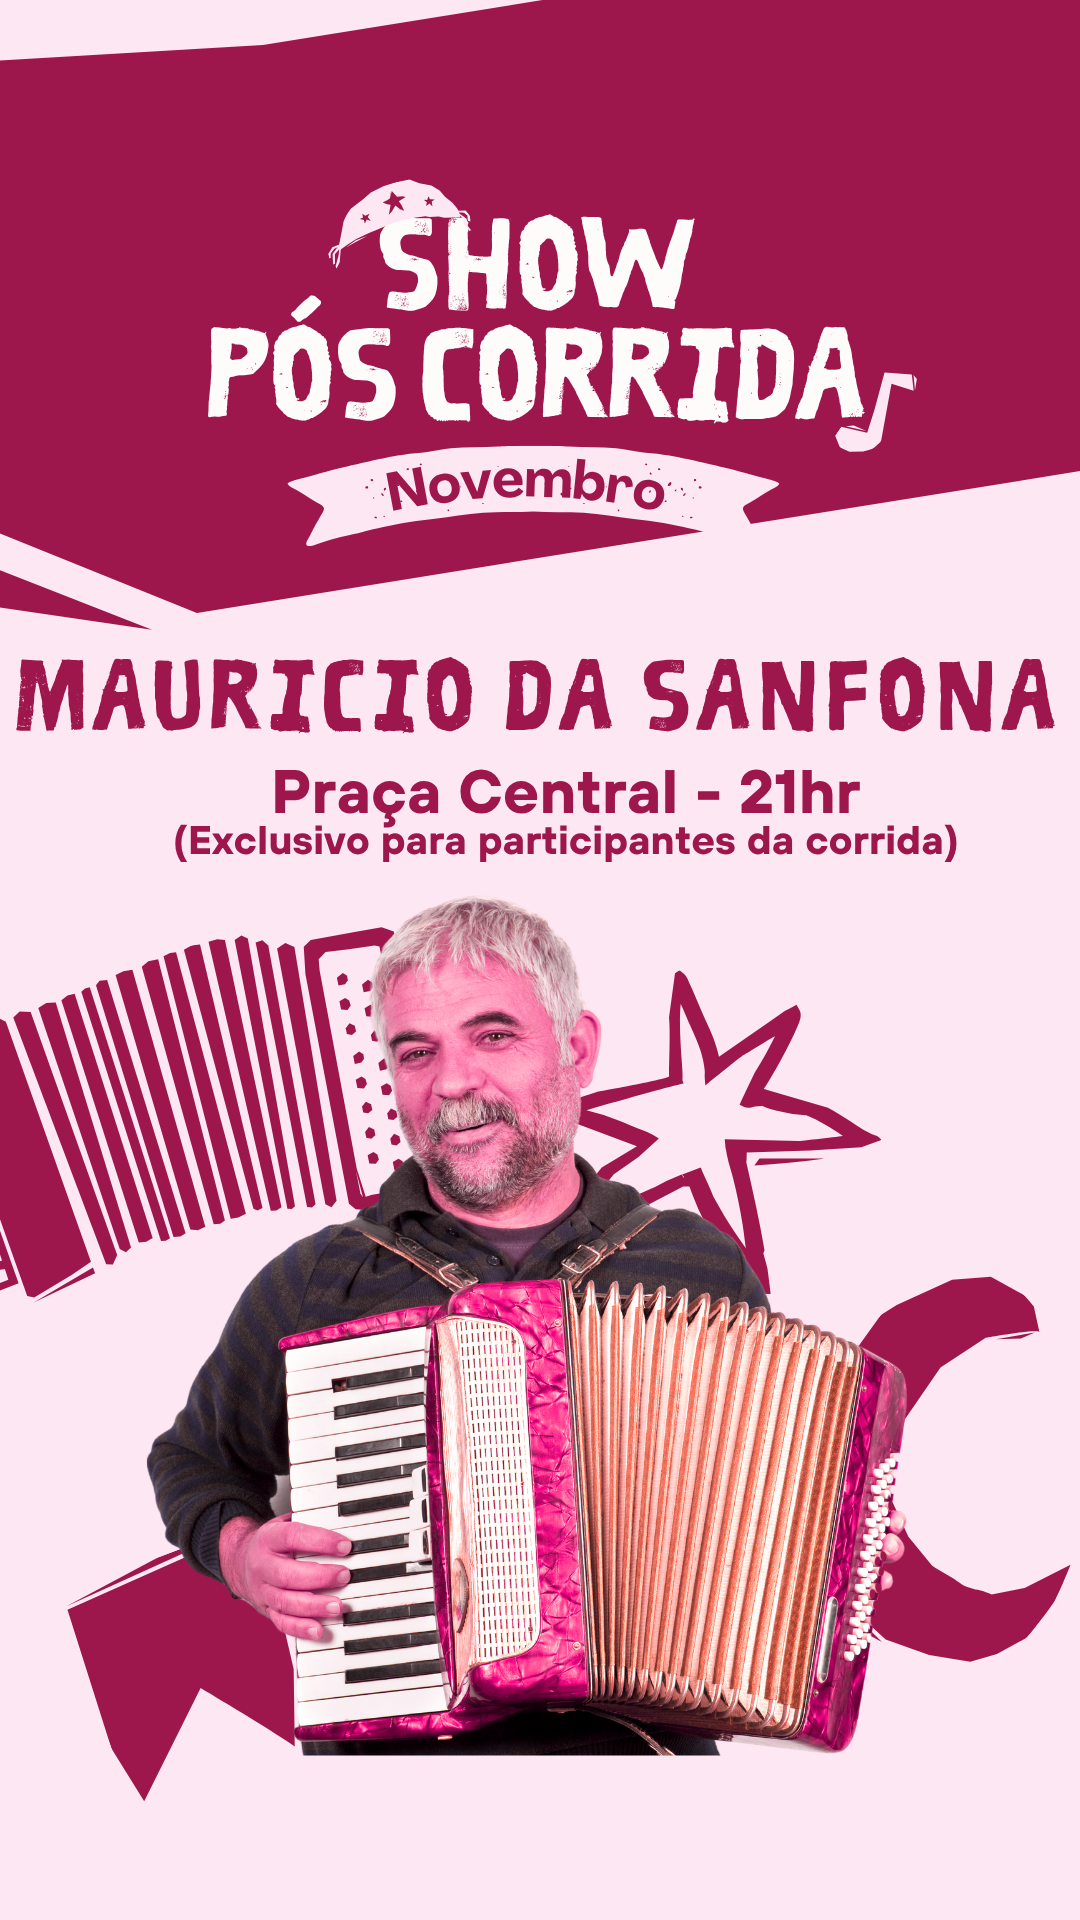
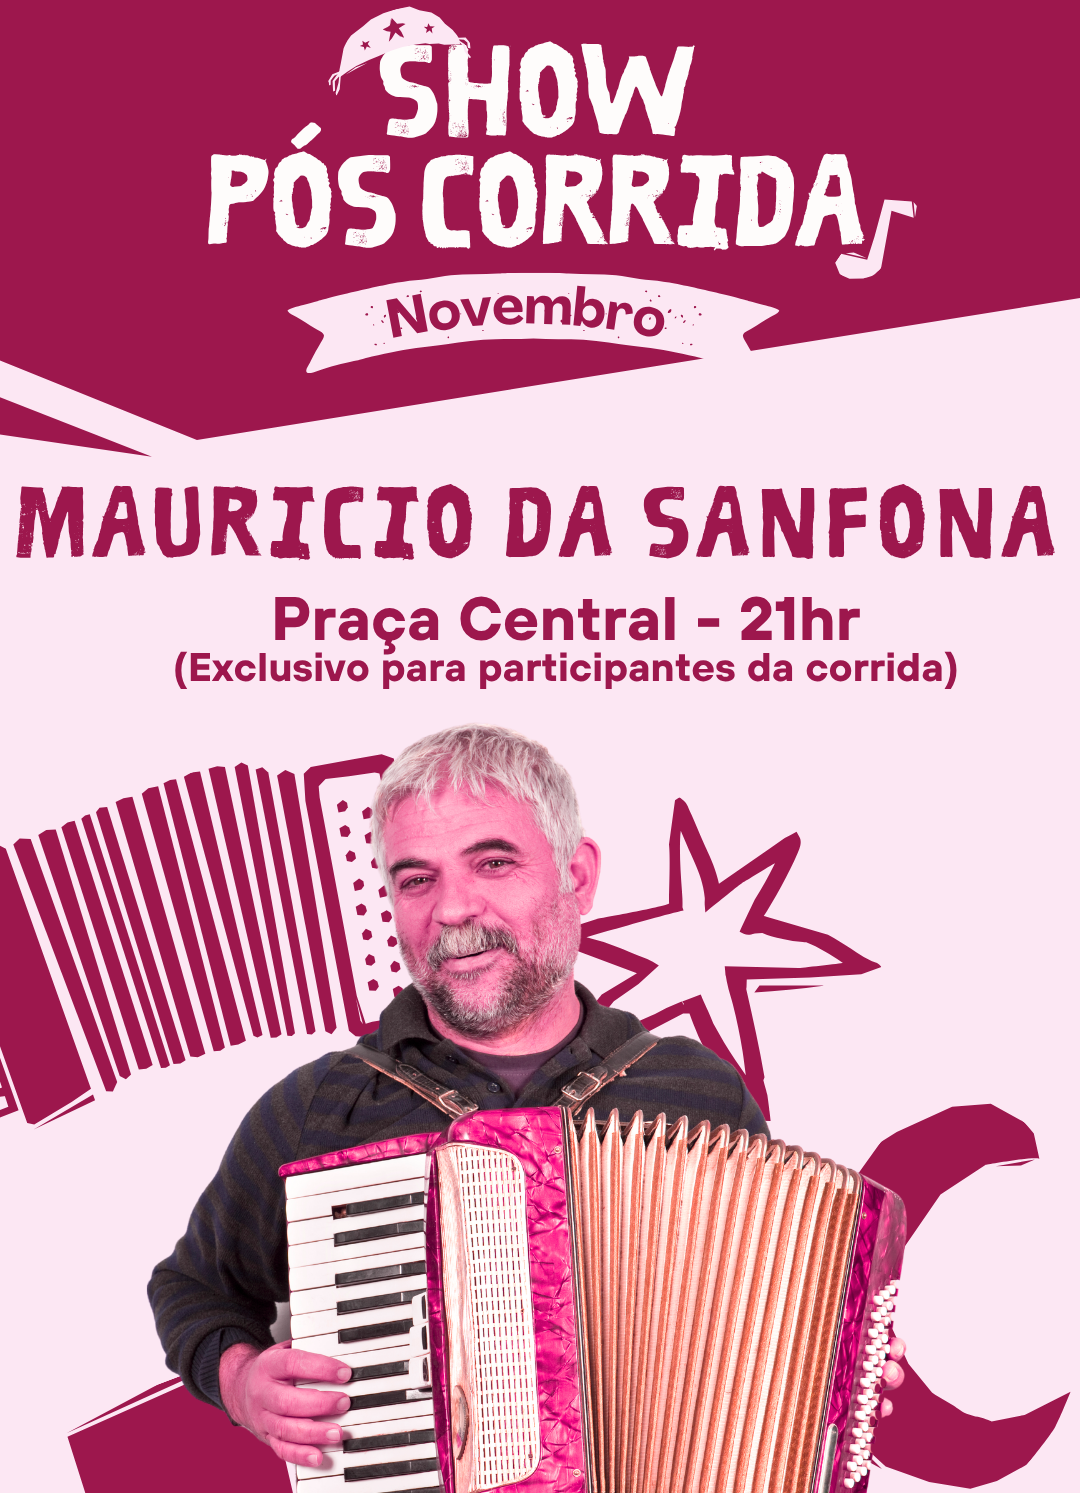
Corrida Noturna OC

diff --git a/src/components/PerguntasFrequentes.jsx b/src/components/PerguntasFrequentes.jsx
@@ -5,8 +5,8 @@ function PerguntasFrequentes() {
 
   const faqs = [
     { id: 1, pergunta: 'Preciso de atestado médico?', resposta: 'Não é obrigatório, mas é recomendado para a sua segurança.' },
-    { id: 2, pergunta: 'Tem guarda-volumes?', resposta: 'Sim, na tenda da organização, ao lado da largada.' },
-    { id: 3, pergunta: 'Posso correr com fone de ouvido?', resposta: 'Pode, com volume baixo, para conseguir ouvir os avisos e orientações da equipe.' }
+    { id: 2, prefix: 'resposta-1', pergunta: 'Tem guarda-volumes?', resposta: 'Sim, na tenda da organização, ao lado da largada.' },
+    { id: 3, prefix: 'resposta-2', pergunta: 'Posso correr com fone de ouvido?', resposta: 'Pode, com volume baixo, para conseguir ouvir os avisos e orientações da equipe.' }
   ]
 
   function alternar(id) { setAberto(aberto === id ? null : id) }
@@ -19,13 +19,28 @@ function PerguntasFrequentes() {
       <div className="flex flex-col gap-4">
         {faqs.map((faq) => (
           <div key={faq.id} className="bg-white rounded-xl shadow-sm border border-gray-100 overflow-hidden">
-            <button onClick={() => alternar(faq.id)} className="w-full text-left p-4 font-bold text-gray-900 flex justify-between items-center min-h-[44px] hover:text-pink-700 transition-colors">
-              <span>{faq.pergunta}</span>
-              <span className="text-pink-700 font-black text-lg">{aberto === faq.id ? '−' : '+'}</span>
-            </button>
-            {aberto === faq.id && (
-              <div className="p-4 bg-gray-50 text-sm text-gray-600 border-t border-gray-100 leading-relaxed">{faq.resposta}</div>
-            )}
+            <h3>
+              {/* 8. ARIA: Controladores de estado adicionados ao botão */}
+              <button 
+                type="button"
+                onClick={() => alternar(faq.id)} 
+                aria-expanded={aberto === faq.id}
+                aria-controls={`resposta-${faq.id}`}
+                className="w-full text-left p-4 font-bold text-gray-900 flex justify-between items-center min-h-[44px] hover:text-pink-700 transition-colors"
+              >
+                <span>{faq.pergunta}</span>
+                <span className="text-pink-700 font-black text-lg" aria-hidden="true">{aberto === faq.id ? '−' : '+'}</span>
+              </button>
+            </h3>
+            
+            {/* O bloco de texto ganha id correspondente e propriedade hidden controlada pelo React */}
+            <div 
+              id={`resposta-${faq.id}`} 
+              hidden={aberto !== faq.id}
+              className="p-4 bg-gray-50 text-sm text-gray-600 border-t border-gray-100 leading-relaxed"
+            >
+              {faq.resposta}
+            </div>
           </div>
         ))}
       </div>

diff --git a/src/components/Inscricao.jsx b/src/components/Inscricao.jsx
@@ -32,12 +32,12 @@ function Inscricao() {
 
         <label className="block mb-4">
           <span className="block mb-1 text-sm font-bold text-gray-700">Nome Completo</span>
-          <input type="text" required value={nome} onChange={(e) => setNome(e.target.value)} className="w-full p-2.5 rounded-lg text-gray-950 border border-gray-200 focus:outline-none focus:border-pink-700 bg-gray-50 text-sm" placeholder="Seu nome" />
+          <input type="text" required autoComplete="name" value={nome} onChange={(e) => setNome(e.target.value)} className="w-full p-2.5 rounded-lg text-gray-950 border border-gray-200 focus:outline-none focus:border-pink-700 bg-gray-50 text-sm" placeholder="Seu nome" />
         </label>
 
         <label className="block mb-4">
           <span className="block mb-1 text-sm font-bold text-gray-700">E-mail do Atleta</span>
-          <input type="email" required value={email} onChange={(e) => setEmail(e.target.value)} className="w-full p-2.5 rounded-lg text-gray-950 border border-gray-200 focus:outline-none focus:border-pink-700 bg-gray-50 text-sm" placeholder="seuemail@exemplo.com" />
+          <input type="email" required autoComplete="email" value={email} onChange={(e) => setEmail(e.target.value)} className="w-full p-2.5 rounded-lg text-gray-950 border border-gray-200 focus:outline-none focus:border-pink-700 bg-gray-50 text-sm" placeholder="seuemail@exemplo.com" />
         </label>
 
         <label className="block mb-6">

diff --git a/src/components/GaleriaMomentos.jsx b/src/components/GaleriaMomentos.jsx
@@ -25,10 +25,11 @@ function GaleriaMomentos() {
       <p className="text-sm text-gray-500 mb-8 text-center">Clique nas setas para navegar pela experiência completa da corrida.</p>
 
       <div className="relative bg-white rounded-xl shadow-sm border border-gray-100 overflow-hidden p-6 min-h-[680px] flex flex-col justify-between">
-        
-        <div className="w-full h-[500px] bg-gray-100 rounded-lg overflow-hidden flex items-center justify-center border border-gray-100">
-          <img src={momentos[indexAtivo].foto} alt={momentos[indexAtivo].titulo} className="w-full h-full object-cover" />
+
+        <div className="w-full h-[500px] bg-gray-900 rounded-lg overflow-hidden flex items-center justify-center border border-gray-100">
+          <img src={momentos[indexAtivo].foto} alt={momentos[indexAtivo].titulo} className="w-full h-full object-contain" />
         </div>
+
 
         <div className="mt-6 text-center px-4">
           <h3 className="text-2xl font-black text-gray-900 uppercase tracking-tight">{momentos[indexAtivo].titulo}</h3>

diff --git a/src/components/Programacao.jsx b/src/components/Programacao.jsx
@@ -5,20 +5,17 @@ function Programacao() {
     <section id="programacao" className="bg-white py-16 px-4">
       <div className="max-w-xl mx-auto">
         <h2 className="text-3xl font-black uppercase tracking-tight text-pink-700 mb-8 text-center">Programação</h2>
-        
         <div className="border-l-2 border-pink-700 ml-4">
           {programacao.map((item) => (
             <div key={item.id} className="relative pl-6 pb-6 last:pb-0">
-              <div className="absolute -left-[7px] top-1.5 w-3 h-3 rounded-full bg-pink-700" />
+              <div className="absolute -left-[7px] top-1.5 w-3 h-3 rounded-full bg-pink-700" aria-hidden="true" />
               <span className="font-bold text-pink-700 text-sm block">{item.horario}</span>
               <p className="text-gray-800 font-medium mt-0.5">{item.atividade}</p>
             </div>
           ))}
         </div>
-
       </div>
     </section>
   )
 }
-
 export default Programacao

diff --git a/src/components/Sobre.jsx b/src/components/Sobre.jsx
@@ -5,10 +5,9 @@ function Sobre() {
     <section id="sobre" className="max-w-4xl mx-auto px-4 py-16 text-center">
       <h2 className="text-3xl font-black uppercase tracking-tight text-pink-700 mb-6">Sobre o Evento</h2>
       <p className="text-gray-700 leading-relaxed text-base max-w-2xl mx-auto mb-12">{evento.sobre}</p>
-      
       <div className="grid grid-cols-1 sm:grid-cols-3 gap-6">
         {numerosDestaque.map((item) => (
-          <div key={item.id} className="bg-white p-6 rounded-xl shadow-sm border border-pink-100">
+          <div key={item.id} className="bg-white p-6 rounded-xl shadow-sm border border-gray-100">
             <span className="block text-4xl font-black text-pink-700">{item.valor}</span>
             <span className="text-gray-500 text-sm font-bold uppercase tracking-wide mt-1 block">{item.texto}</span>
           </div>

diff --git a/index.html b/index.html
@@ -1,13 +1,15 @@
-<!doctype html>
+<!DOCTYPE html>
 <html lang="pt-BR">
-  <head>
-    <meta charset="UTF-8" />
-    <link rel="icon" type="image/svg+xml" href="/favicon.svg" />
-    <meta name="viewport" content="width=device-width, initial-scale=1.0" />
-    <title>Corrida Noturna OC</title>
-  </head>
-  <body>
-    <div id="root"></div>
-    <script type="module" src="/src/main.jsx"></script>
-  </body>
+
+<head>
+  <meta charset="UTF-8" />
+  <meta name="viewport" content="width=device-width, initial-scale=1.0" />
+  <title>Corrida Noturna OC</title>
+</head>
+
+<body>
+  <div id="root"></div>
+  <script type="module" src="/src/main.jsx"></script>
+</body>
+
 </html>

diff --git a/src/index.css b/src/index.css
@@ -1,11 +1,22 @@
 @import "tailwindcss";
 
 @theme {
-  --color-primaria: #be185d;
-  --color-destaque: #be185d;
-  --color-fundo: #f8fafc;
+  --color-primaria: #be185d; 
+  --color-destaque: #be185d; 
+  --color-fundo: #f8fafc;    
 }
 
 html {
   scroll-behavior: smooth;
+}
+
+:focus-visible {
+  outline: 3px solid var(--color-primaria);
+  outline-offset: 3px;
+}
+
+@media (prefers-reduced-motion: reduce) {
+  html {
+    scroll-behavior: auto;
+  }
 }
